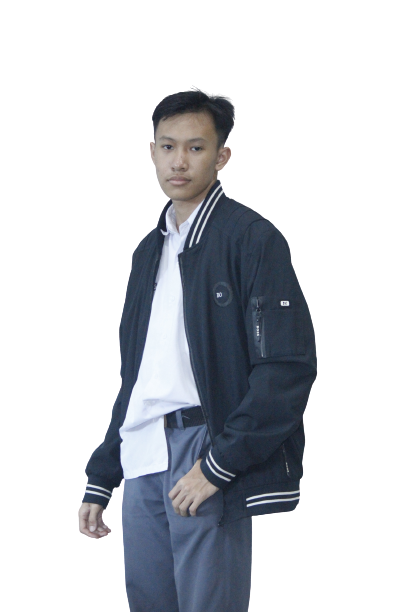
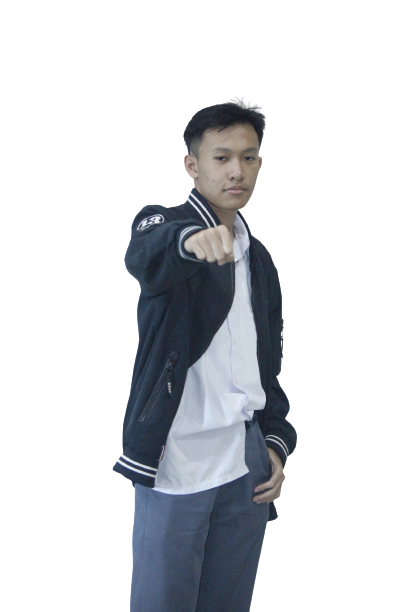
add actor image

Changed region(s): [[0.1765, 0.1242, 0.7941, 1.0]]

diff --git a/src/components/Aktor.jsx b/src/components/Aktor.jsx
@@ -4,27 +4,39 @@ import { ChevronUpDownIcon } from '@heroicons/react/20/solid'
 
 import Arum from "../asset/img/anel.png"
 import Galen from "../asset/img/hasnat.png"
-
+import Asgar from "../asset/img/azril.png"
+import ayahBrandon from "../asset/img/darrel.png"
+import Baron from "../asset/img/hatif.png"
+import Brandon from "../asset/img/ikhsan.png"
+import ibuBrandon from "../asset/img/nadila.png"
+import ayahArum from "../asset/img/naufal.png"
+import ibuArum from "../asset/img/nopa.png"
+import mesum1 from "../asset/img/reyvan.png"
+import mesum2 from "../asset/img/noval.png"
+import Emil from "../asset/img/fadhli.png"
+import Ian from "../asset/img/syafaat.png"
+import Ola from "../asset/img/sherryl.png"
+import Qiran from "../asset/img/marwa.png"
 
 const people = [
-    { "nama": "Risma Anelita", "peran": "Arum", "img": Arum },
+    { "nama": "Risma Anelita", "peran": "Arum", "img": Arum},
     { "nama": "Trah Purwa Paksi", "peran": "Gyndara" },
-    { "nama": "Muhammad Naufal Nabillansyah", "peran": "Ayah Arum" },
-    { "nama": "Wulan Shavira Nopa", "peran": "Ibu Arum" },
-    { "nama": "Marwa Aulia Lukman", "peran": "Qiran" },
-    { "nama": "Sherryl Azizah Aulia", "peran": "Ola" },
+    { "nama": "Muhammad Naufal Nabillansyah", "peran": "Ayah Arum", "img": ayahArum },
+    { "nama": "Wulan Shavira Nopa", "peran": "Ibu Arum", "img":ibuArum },
+    { "nama": "Marwa Aulia Lukman", "peran": "Qiran","img":Qiran },
+    { "nama": "Sherryl Azizah Aulia", "peran": "Ola", "img":Ola },
     { "nama": "Bisma Gyndara Mages Jayalangit", "peran": "Ayah Gyndara" },
-    { "nama": "Darrel Rafa Raihan", "peran": "Ayah Brandon" },
-    { "nama": "Nadilla Nur Afifah", "peran": "Ibu Brandon" },
-    { "nama": "Ikhsan Rifansyah", "peran": "Brandon" },
+    { "nama": "Darrel Rafa Raihan", "peran": "Ayah Brandon", "img":ayahBrandon },
+    { "nama": "Nadilla Nur Afifah", "peran": "Ibu Brandon", "img": ibuBrandon },
+    { "nama": "Ikhsan Rifansyah", "peran": "Brandon", "img":Brandon },
     { "nama": "Evan Fawwaz Firjatullah", "peran": "Pak Kusmo" },
-    { "nama": "Muhammad Hatif Ghazy", "peran": "Baron" },
-    { "nama": "Azril Devan Saqi", "peran": "Asgar" },
+    { "nama": "Muhammad Hatif Ghazy", "peran": "Baron", "img":Baron },
+    { "nama": "Azril Devan Saqi", "peran": "Asgar",'img':Asgar },
     { "nama": "Hasnat Ferdiananda", "peran": "Galen", "img": Galen },
-    { "nama": "Syafa'at Abdusalam", "peran": "Ian" },
-    { "nama": "Muhammad Fadhli Fathoni", "peran": "Emil" },
-    { "nama": "Rievan Rivaldy Nur Triana", "peran": "Murid Mesum 1" },
-    { "nama": "Noval Raihan Al-Fikriana", "peran": "Murid Mesum 2" },
+    { "nama": "Syafa'at Abdusalam", "peran": "Ian","img":Ian },
+    { "nama": "Muhammad Fadhli Fathoni", "peran": "Emil", "img":Emil },
+    { "nama": "Rievan Rivaldy Nur Triana", "peran": "Murid Mesum 1", "img":mesum1 },
+    { "nama": "Noval Raihan Al-Fikriana", "peran": "Murid Mesum 2", "img":mesum2 },
     { "nama": "Rakendra Aznil Raekhan", "peran": "Murid Mesum 3" },
     { "nama": "Fikri Alfathir Solehudin", "peran": "Caraka" },
 ]

diff --git a/src/components/About.jsx b/src/components/About.jsx
@@ -52,7 +52,7 @@ const about = () => {
                         {(() => {
                             let post = [];
                             for (let i = 0; i < studentlist.length; i++) {
-                                if (studentlist[i].job === "Sutradara") {
+                                if (studentlist[i].job.includes("Sutradara")) {
                                     post.push(<Crew instagram={studentlist[i].Instagram} nama={studentlist[i].nama}></Crew>)
                                 }
                             }
@@ -64,7 +64,7 @@ const about = () => {
                         {(() => {
                             let post = [];
                             for (let i = 0; i < studentlist.length; i++) {
-                                if (studentlist[i].job === "Asisten Sutradara") {
+                                if (studentlist[i].job.includes("Asisten Sutradara")) {
                                     post.push(<Crew instagram={studentlist[i].Instagram} nama={studentlist[i].nama}></Crew>)
                                 }
                             }
@@ -76,7 +76,7 @@ const about = () => {
                         {(() => {
                             let post = [];
                             for (let i = 0; i < studentlist.length; i++) {
-                                if (studentlist[i].job === "Narator") {
+                                if (studentlist[i].job.includes("Narator")) {
                                     post.push(<Crew instagram={studentlist[i].Instagram} nama={studentlist[i].nama}></Crew>)
                                 }
                             }

diff --git a/src/asset/img/index.js b/src/asset/img/index.js
@@ -1,0 +1,1 @@
+//const export 
